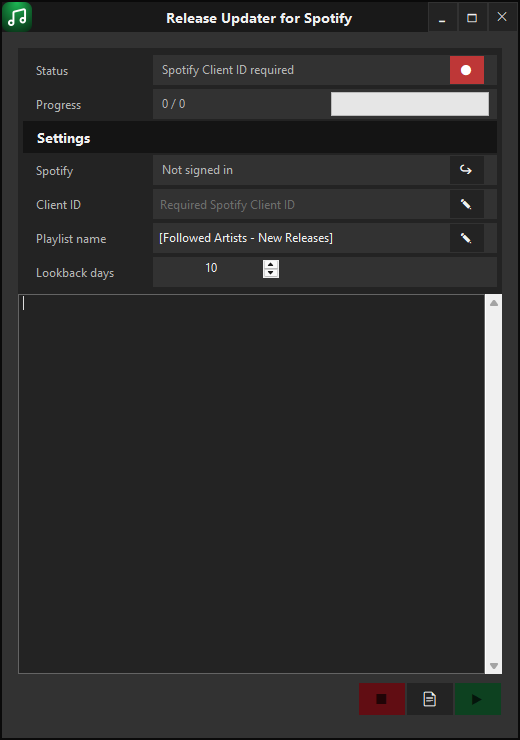
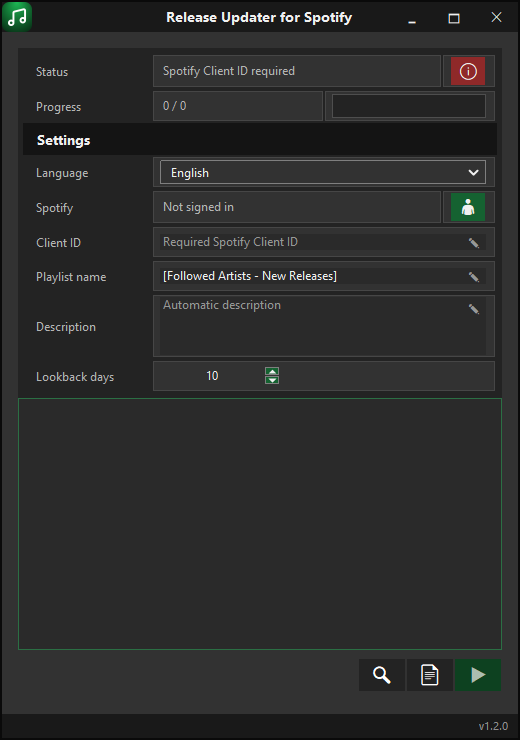
README and screenshot for 1.2.0: new start screen (language box, description, version), the buttons are named as they look now

diff --git a/README.md b/README.md
@@ -10,6 +10,7 @@ A small Windows app that keeps one Spotify playlist stocked with new releases fr
 - Checks every artist you follow for new albums and singles released within a configurable lookback window (1–20 days)
 - Also finds new tracks where a followed artist appears as a featured collaborator
 - Deduplicates everything it finds and replaces the contents of one **private** playlist you choose
+- Speaks English and German (the language box in the settings)
 - Writes a sortable HTML report of what was added, and what got skipped as a duplicate
 - Keeps a list of songs you are waiting for and checks Spotify for them (the search icon): titles and artists are matched loosely, so a typo, a "feat." or a "- Remastered" does not hide a release; every match is marked as confident or similar
 - Remembers where you found a waiting song: one link per row (double click opens it, Ctrl + double click changes it); only real web addresses are kept
@@ -27,10 +28,10 @@ The published build is self-contained: it bundles the .NET runtime, so there's n
 ## Getting started
 
 1. Download the latest release from the [Releases page](../../releases) and run `Release Updater for Spotify.exe`.
-2. Click the Client ID status indicator — it opens a short guide and copies the redirect URI you'll need.
+2. Click the status button at the top (the red one, while the Client ID is missing) — it opens a short guide and copies the redirect URI you'll need.
 3. Create a free app in the [Spotify Developer Dashboard](https://developer.spotify.com/dashboard), paste in the redirect URI, and copy the app's Client ID back into Release Updater for Spotify.
 4. Sign in with your Spotify account.
-5. Pick a playlist name and lookback window, then click **Update playlist**.
+5. Pick a playlist name and lookback window (and, if you like, a short description — the pencil unlocks a box until you confirm it), then press the green play button to update the playlist. The same button stops a run that is in progress.
 
 ## Why do I need my own Client ID?
 
